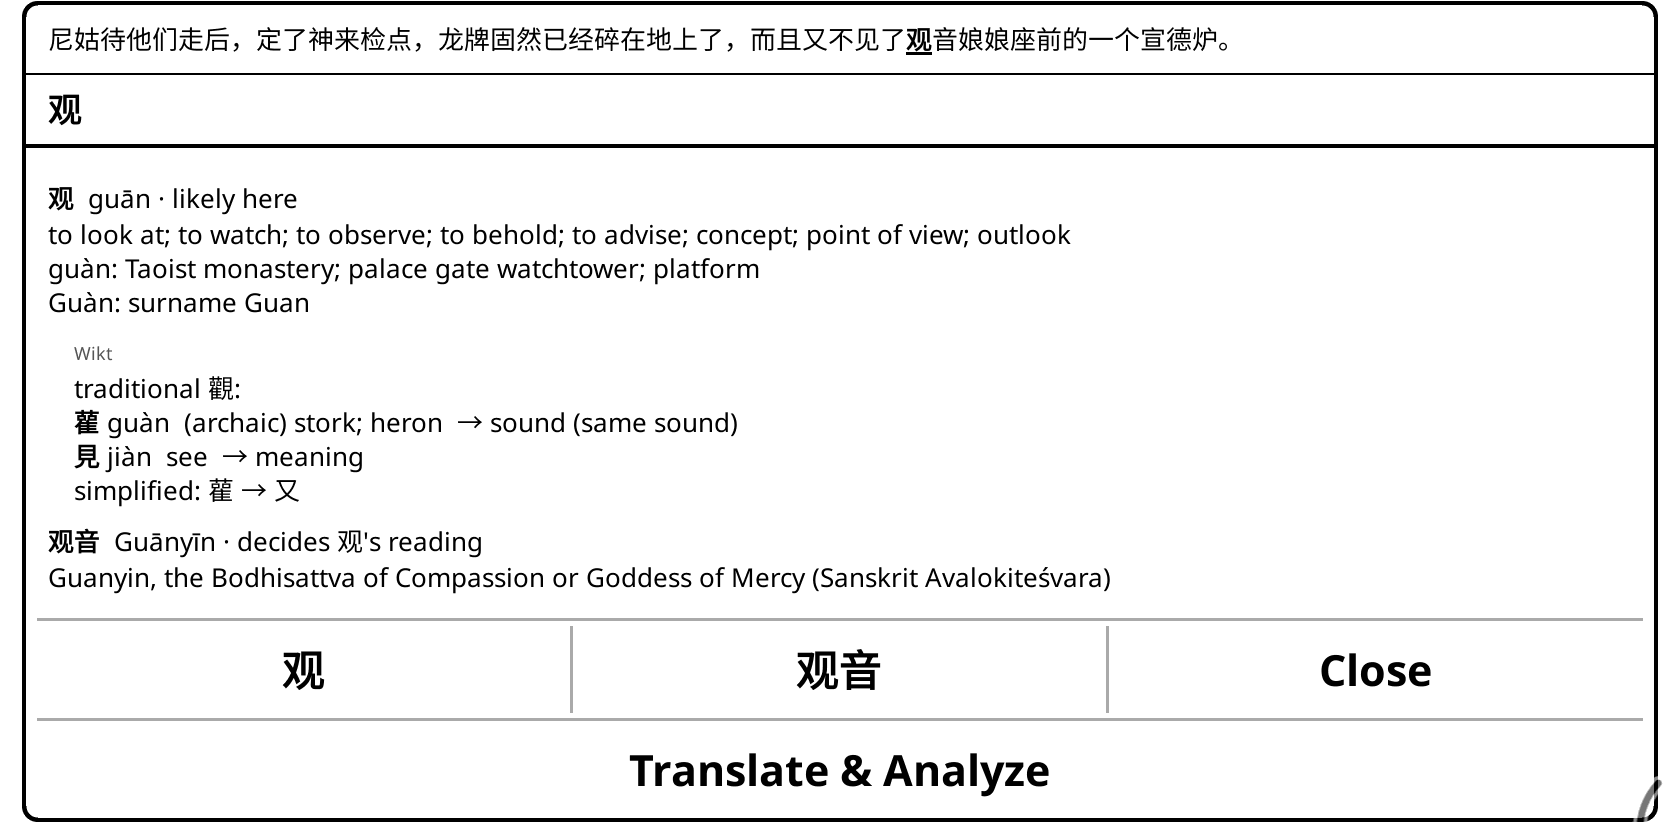
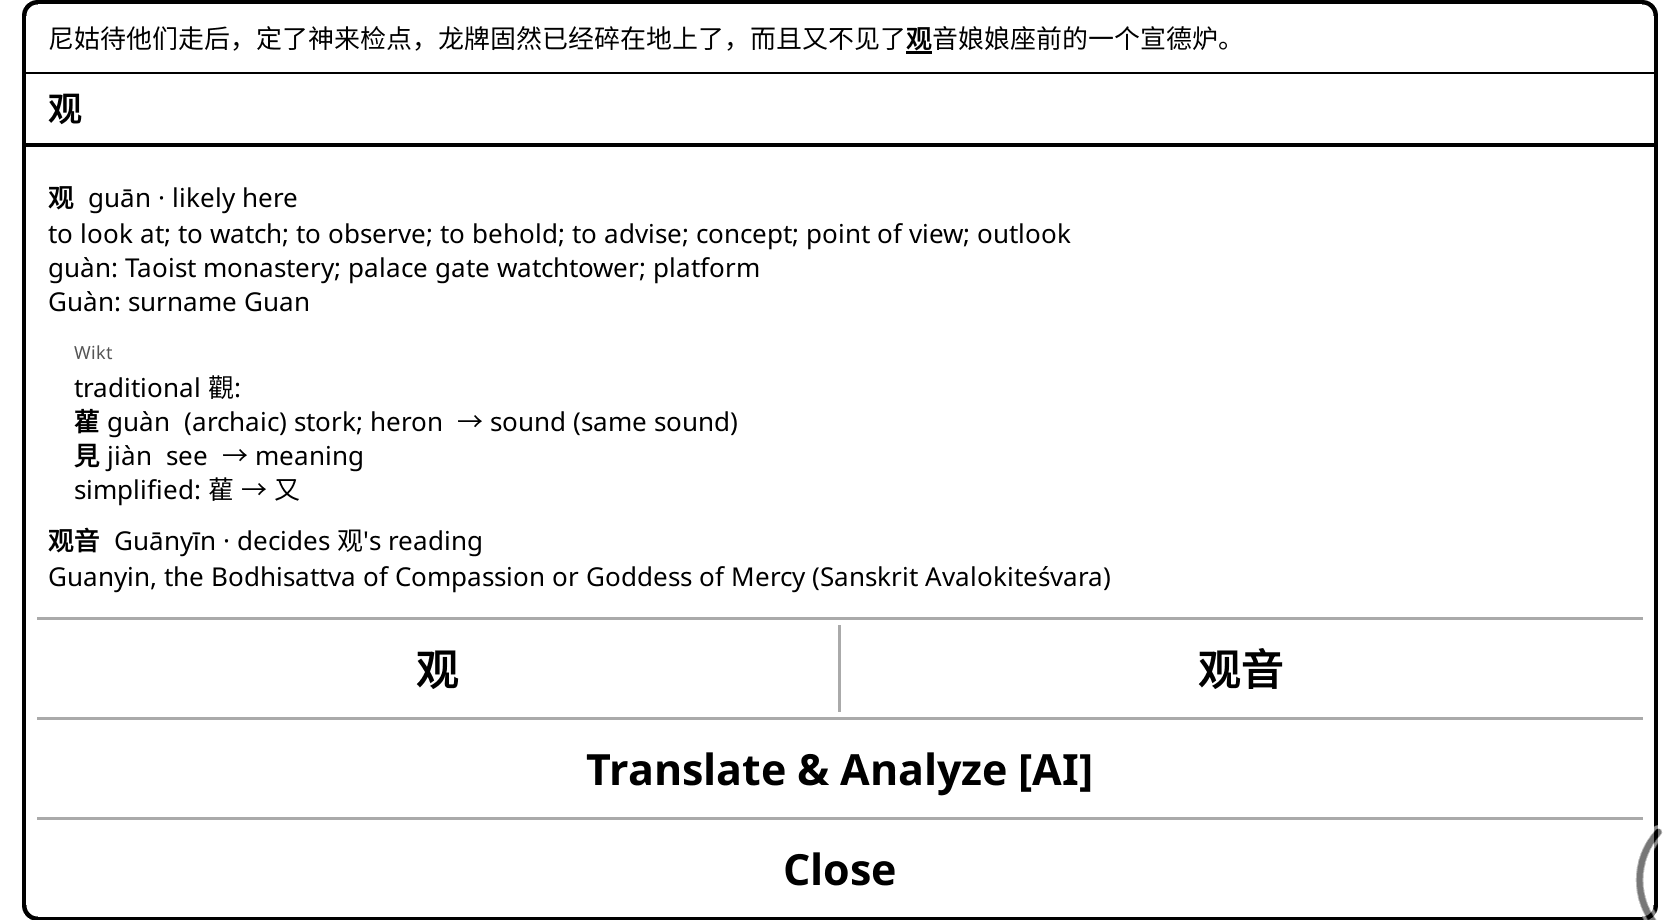
Translate button reads "Translate & Analyze [AI]"; screenshots retaken
The bottom Close row and the new label: every popup shot retaken. The
nested shot's 欢 tap moved (MOE's text wraps differently since 2.1.0's
larger Chinese size); crops follow the taller popups.

Changed region(s): [[0.0, 0.0, 0.9905, 1.0]]

diff --git a/tools/make_screenshots.py b/tools/make_screenshots.py
@@ -93,27 +93,27 @@ SHOTS = {
         frames=[(1, (95, 1185))]),
     "context": dict(page="kyj14", taps=[("间", 1, (773, 500), [
         "**间**  jiàn · likely here", "**间或**  jiànhuò · decides 间's reading"])],
-        frames=[(1, (255, 1008))]),
+        frames=[(1, (205, 1057))]),
     "components": dict(page="kyj13", taps=[("茴", 1, (988, 790), [
         "**茴**  huí", "**艹** cǎo  grass; plant (草字头)  → meaning",
         "**回** huí  to go back; to return  → sound (same sound)", "**茴香豆**  huíxiāngdòu"])],
-        frames=[(1, (247, 1019))]),
+        frames=[(1, (196, 1067))]),
     "traditional": dict(page="aq59", taps=[("观", 1, (170, 965), [
         "**观**  guān · likely here", "traditional 觀:", "**雚** guàn", "→ sound (same sound)",
         "simplified: 雚 → 又", "**观音**  Guānyīn · decides 观's reading"])],
-        frames=[(1, (220, 1042))]),
+        frames=[(1, (171, 1091))]),
     "chengyu": dict(page="kyj13", taps=[("也", 3, (170, 590), [
         "**之乎者也**  zhīhūzhěyě", "[新华] 这四个字都是文言虚词"]), ("出处", None, (1440, 862), [])],
         frames=[(1, (134, 1130)), (2, (20, 700))]),
     "labels": dict(page="sg1", taps=[("秋", 1, (775, 665), [
         "**秋**  qiū", "[MMAH]", "[MOE]", "**秋月春风**  qiū yuè chūn fēng", "[Wikt]", "**秋月**  qiūyuè"])],
-        frames=[(1, (112, 1150))]),
+        frames=[(1, (100, 1162))]),
     # A character of the popup's own text: 欢, inside MOE's quotation of 〈琵琶行〉,
     # opens its popup on top; the context line is the quotation (the device's
     # log must give it as the sentence), the 欢 below underlined.
     "nested": dict(page="sg1", taps=[("秋", 1, (775, 665), ["[MOE]", "**秋月春风**  qiū yuè chūn fēng"]),
-                                     ("欢", "nested", (1323, 753), ["「今年欢笑复明年，秋月春风等闲度。」"])],
-                   frames=[(2, (112, 1150))]),
+                                     ("欢", "nested", (1585, 750), ["「今年欢笑复明年，秋月春风等闲度。」"])],
+                   frames=[(2, (100, 1162))]),
     "translate": dict(page="kyj13", taps=[("窃", 1, (1465, 995), ["**窃**  qiè"])],
         frames=[(1, (15, 1160))]),
     # Page 1 with pinyin off, then on: the plugin adds line space where it

diff --git a/README.md b/README.md
@@ -11,7 +11,7 @@ the reading the character takes in this context: 行 is *háng* in 银行 but *x
 cutoff you choose: the hard ones get help and the rest of the page stays clean. It works on any
 reflowable book (EPUB, FB2, MOBI, TXT and the like) as soon as you open it.
 
-![The opening of 三国演义 第一回 on a Boox Go 7: the chapter title, then the popup on 密. At its top, the line 时有宦官曹节等弄权，窦武、陈蕃谋诛之，作事不密，反为所害，中涓自此愈横。 with 密 in bold and underlined; then 密 mì, "dense; close; … (bound form) secret; confidential …", "Mì: surname Mi"; its parts, labelled Wikt: 宓 mì still; silent → sound (same sound), 山 shān mountain → meaning; then 不密 bùmì "(literary) not well thought out; (literary) not secret", labelled Wikt; buttons 密 and 不密, then Translate & Analyze on its own row, then Close at the bottom. Below the popup, the last lines of the 话说天下大势 paragraph, with juān above 涓 and 密 underlined on the page](docs/main.png)
+![The opening of 三国演义 第一回 on a Boox Go 7: the chapter title, then the popup on 密. At its top, the line 时有宦官曹节等弄权，窦武、陈蕃谋诛之，作事不密，反为所害，中涓自此愈横。 with 密 in bold and underlined; then 密 mì, "dense; close; … (bound form) secret; confidential …", "Mì: surname Mi"; its parts, labelled Wikt: 宓 mì still; silent → sound (same sound), 山 shān mountain → meaning; then 不密 bùmì "(literary) not well thought out; (literary) not secret", labelled Wikt; buttons 密 and 不密, then Translate & Analyze [AI] on its own row, then Close at the bottom. Below the popup, the last lines of the 话说天下大势 paragraph, with juān above 涓 and 密 underlined on the page](docs/main.png)
 
 <table>
 <tr>
@@ -28,7 +28,7 @@ reflowable book (EPUB, FB2, MOBI, TXT and the like) as soon as you open it.
 </tr>
 <tr>
 <td><img src="docs/labels.png" alt="Popup for 秋 in the 临江仙's 惯看秋月春风: at the top the line 白发渔樵江渚上，惯看秋月春风。 with 秋 marked; 秋 qiū from CC-CEDICT; its parts 禾 and 火 labelled MMAH; 秋月 labelled Wikt; last, 秋月春风 labelled MOE with its Chinese definition in larger type; a 出处 button"><br><a href="#fallback-dictionaries"><b>Several dictionaries, each labelled</b></a>: CC-CEDICT, Wiktionary for 秋月, and last, in larger type, MOE (optional) for 秋月春风</td>
-<td><img src="docs/translate.png" alt="Popup for 窃 at the top of the page, its line 孔乙己便涨红了脸，额上的青筋条条绽出，争辩道：“窃书不能算偷……窃书！ with 窃 marked, a Translate &amp; Analyze button and Close below it; below it the page of 孔乙己, 窃 underlined in the line 窃书不能算偷……窃书！……读书人的事，能算偷么？"><br><a href="#translating-the-sentence"><b>Translate &amp; Analyze the sentence</b></a> with KOAssistant (while Wi-Fi is on): here 孔乙己's 窃书不能算偷</td>
+<td><img src="docs/translate.png" alt="Popup for 窃 at the top of the page, its line 孔乙己便涨红了脸，额上的青筋条条绽出，争辩道：“窃书不能算偷……窃书！ with 窃 marked, a Translate &amp; Analyze [AI] button and Close below it; below it the page of 孔乙己, 窃 underlined in the line 窃书不能算偷……窃书！……读书人的事，能算偷么？"><br><a href="#translating-the-sentence"><b>Translate &amp; Analyze the sentence</b></a> with KOAssistant (while Wi-Fi is on): here 孔乙己's 窃书不能算偷</td>
 </tr>
 </table>
 
@@ -222,7 +222,7 @@ around it in that text that contains it), and stays underlined in the popup belo
 one is open. Nothing else in the popup is tappable: not the headlines (the character or word
 the entry is for), the components, or the English glosses.
 
-![Popup for 秋 in the 临江仙, and on top of it the popup for 欢, tapped in MOE's quotation of 〈琵琶行〉: its line at the top is 「今年欢笑复明年，秋月春风等闲度。」 with 欢 marked, then 欢 huān, its parts, 欢笑 huānxiào, and the buttons 欢 and 欢笑, then Translate & Analyze, then Close at the bottom](docs/nested.png)
+![Popup for 秋 in the 临江仙, and on top of it the popup for 欢, tapped in MOE's quotation of 〈琵琶行〉: its line at the top is 「今年欢笑复明年，秋月春风等闲度。」 with 欢 marked, then 欢 huān, its parts, 欢笑 huānxiào, and the buttons 欢 and 欢笑, then Translate & Analyze [AI], then Close at the bottom](docs/nested.png)
 
 - **Its text is the popup's, not the book's.** The line at the top and the sentence **Translate**
   sends are the sentence around the character in the popup text: cut at 。！？；, a line break, or
@@ -328,7 +328,7 @@ popup and sends **the whole sentence containing the tapped character**:
 
 - **With [KOAssistant](https://github.com/zeeyado/koassistant.koplugin) installed** (tested with
   0.23.0; the button uses its internals, so a later version may fall back to the built-in
-  translator), it reads **Translate & Analyze**: a built-in prompt asks for a natural English
+  translator), it reads **Translate & Analyze [AI]**: a built-in prompt asks for a natural English
   translation, a chunk-by-chunk analysis (characters, pinyin, a literal gloss, the grammatical
   role) and any construction that governs the sentence. The sentence goes to KOAssistant as a
   selection, so it also gets the surrounding context, your provider and model, and the book's
